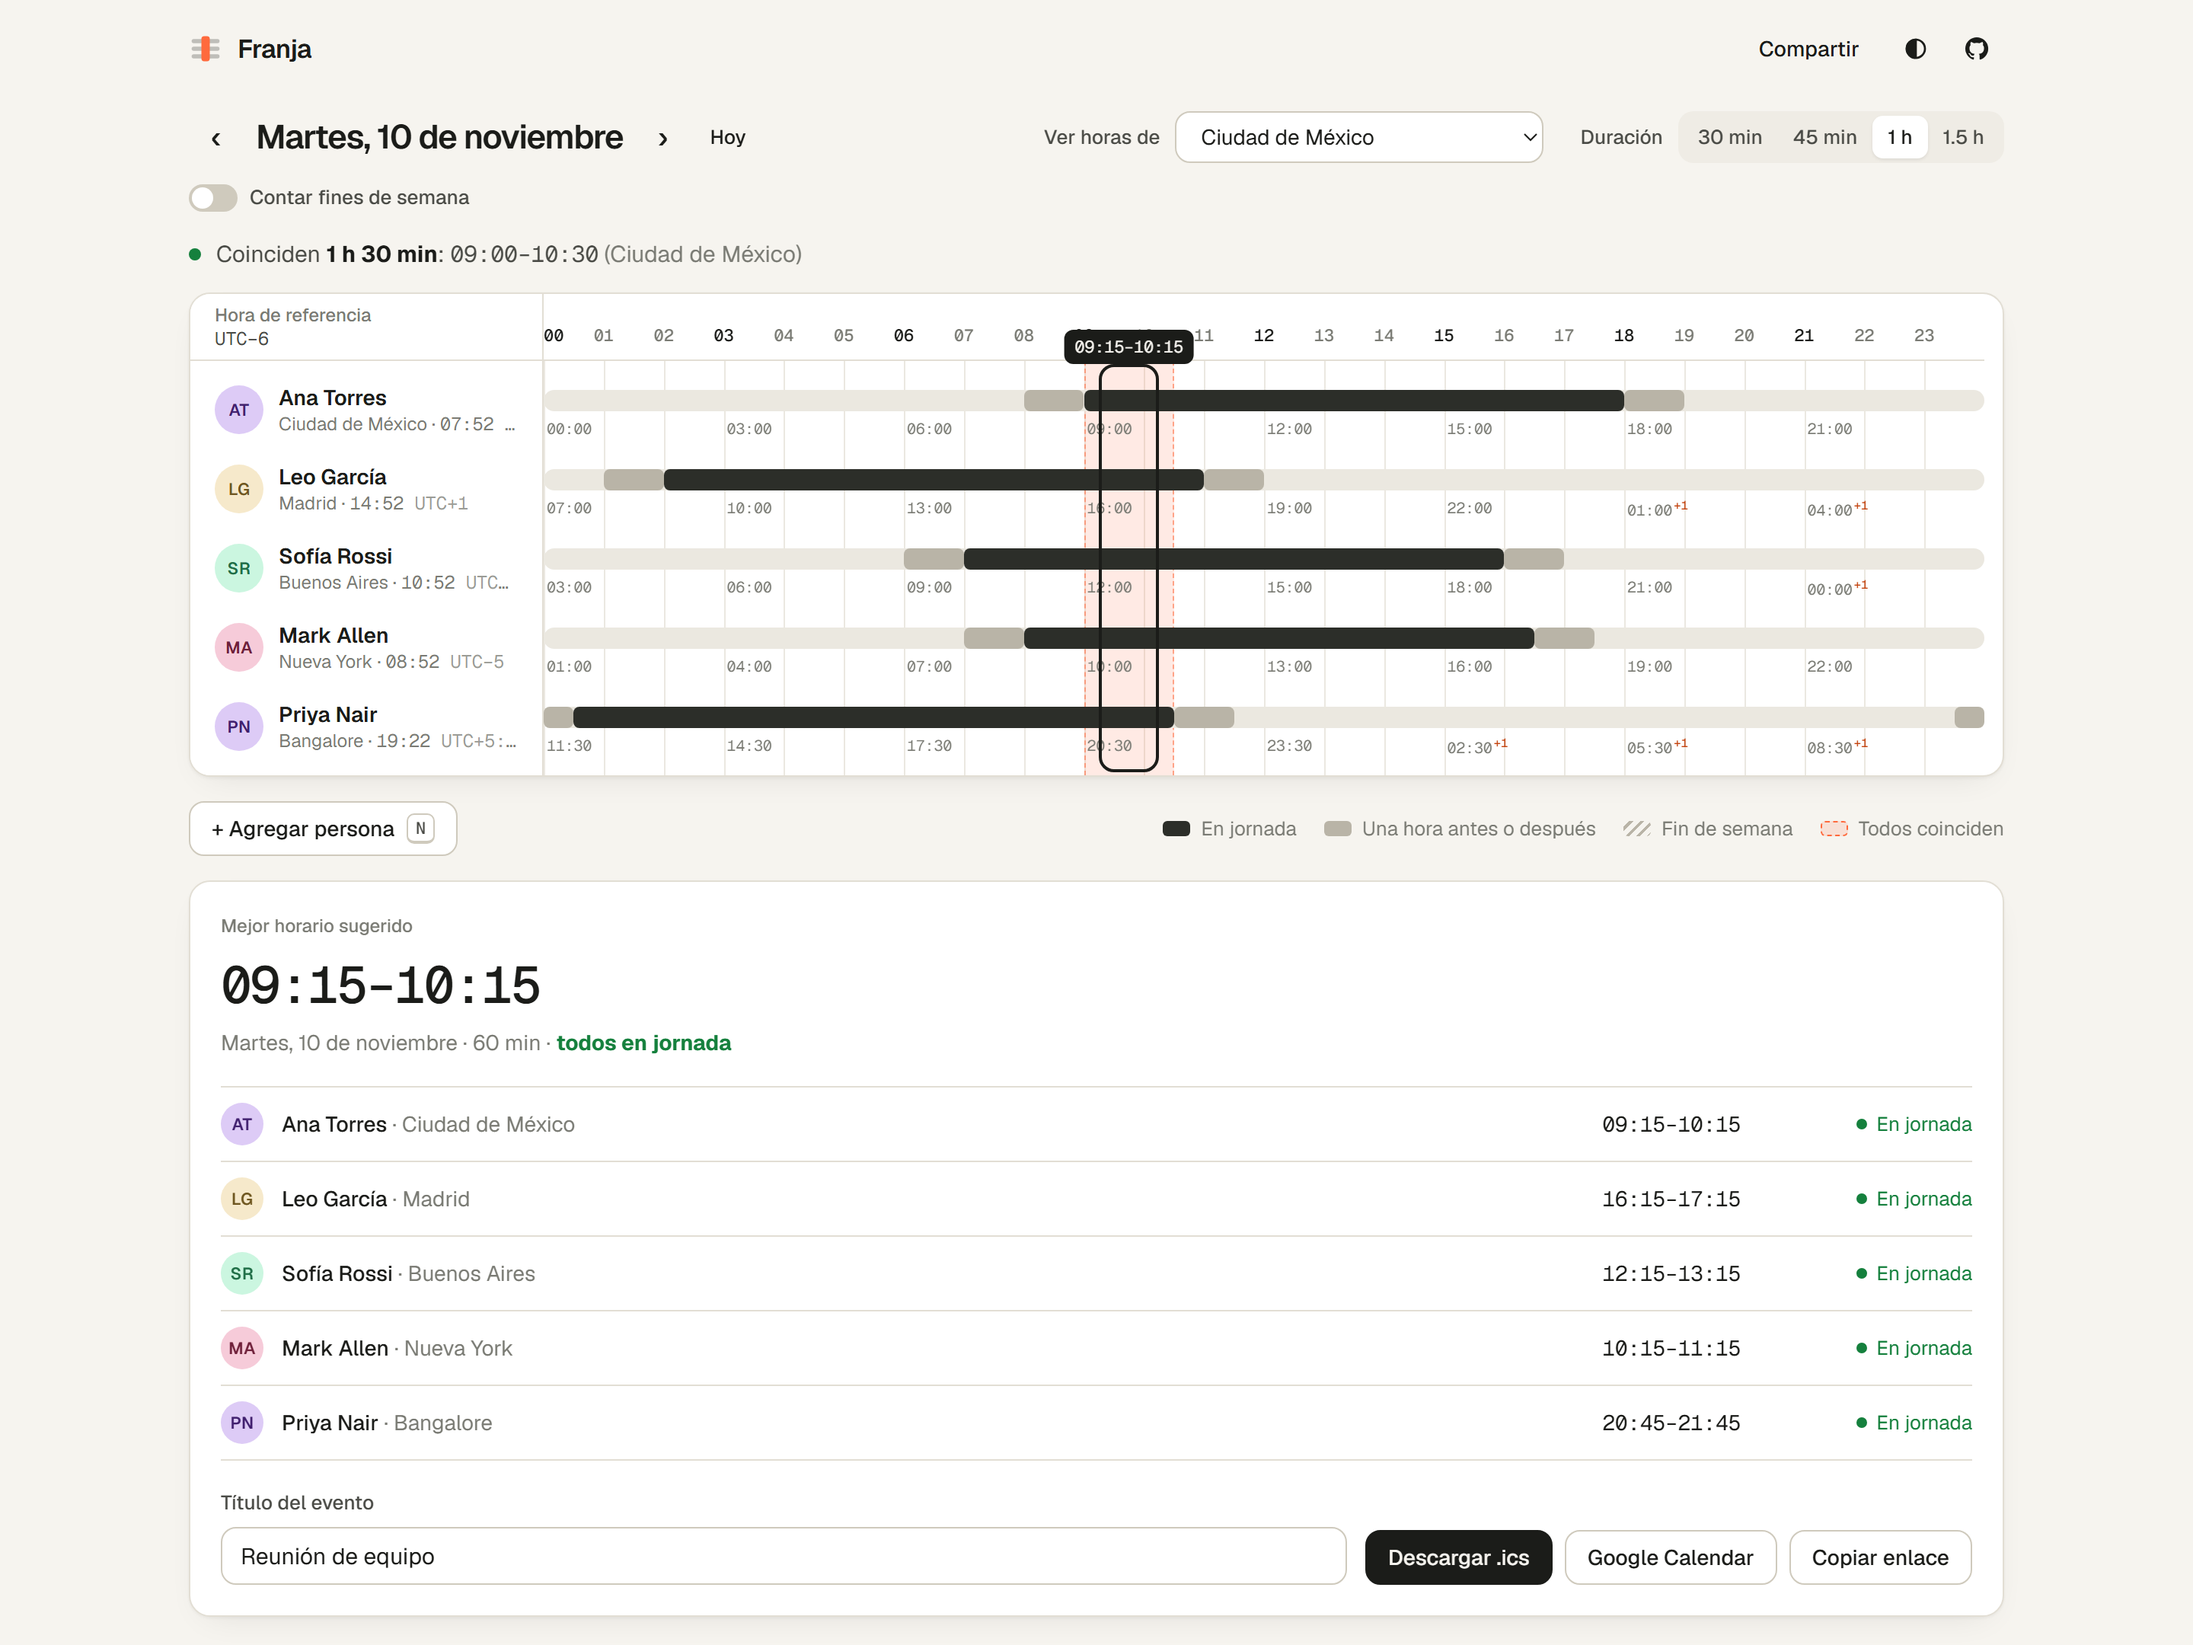
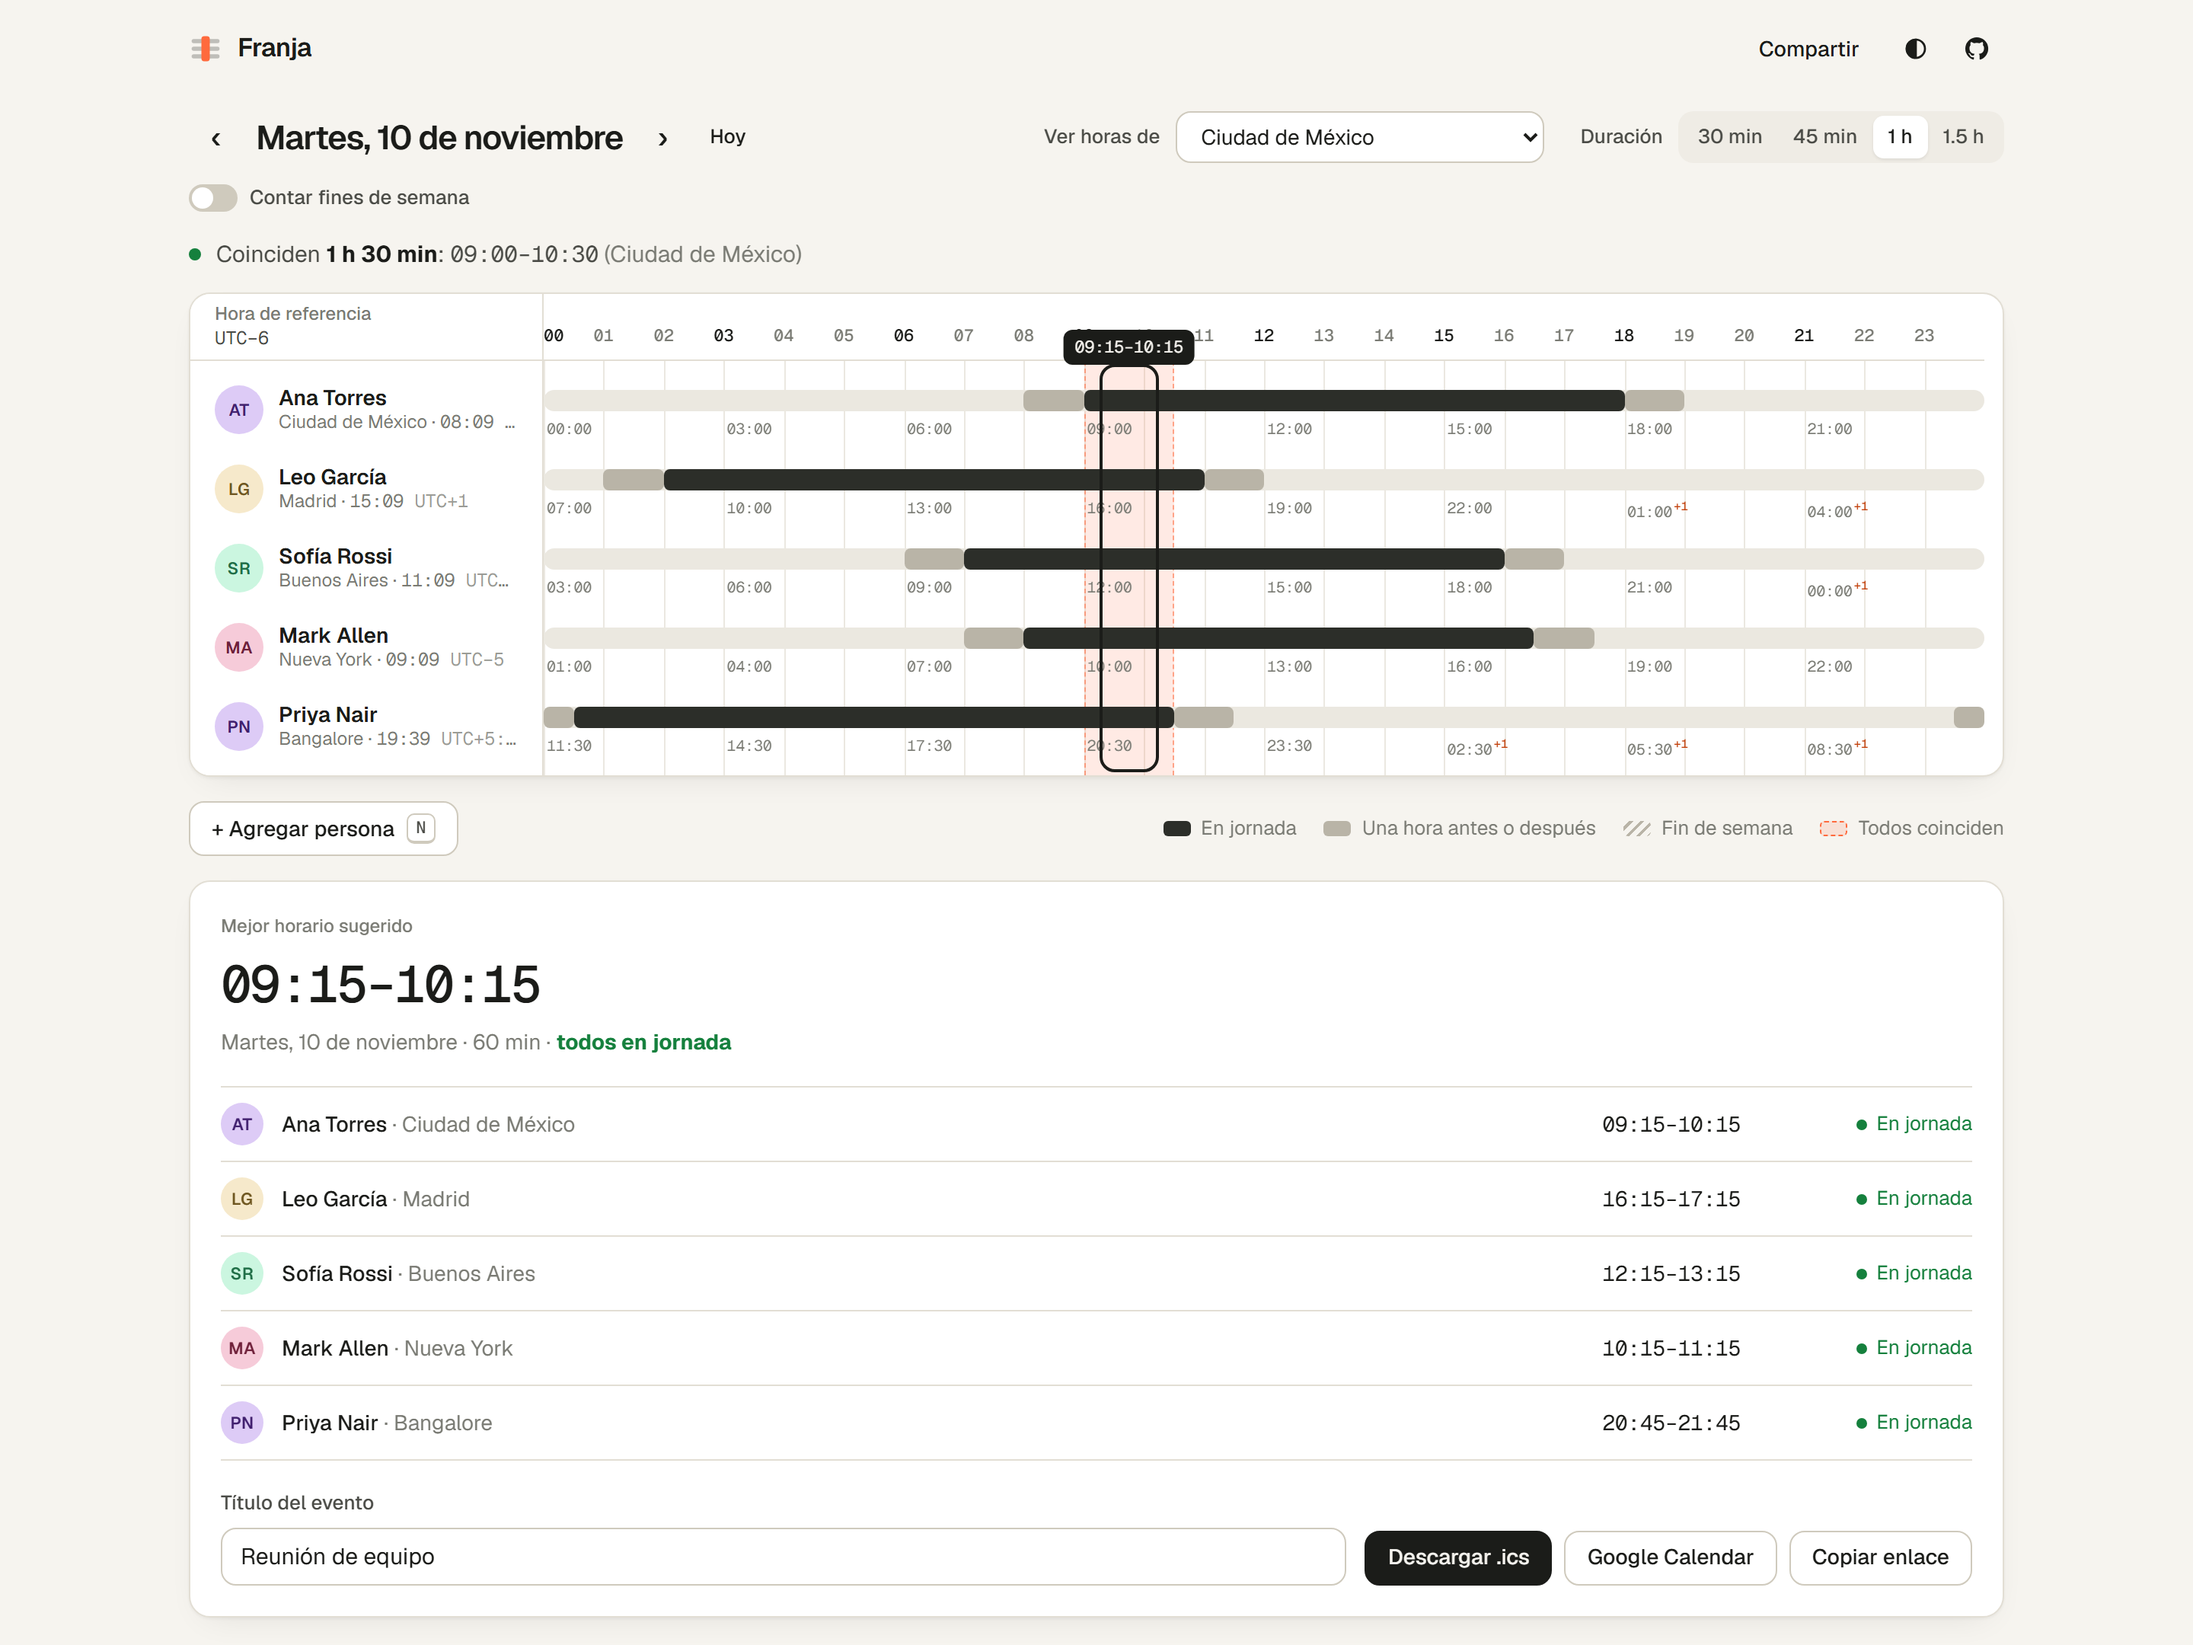
Actualiza las capturas del README e incluye el explorador de zonas
- scripts/screenshots.mjs genera las capturas claras y oscuras con Chrome
  sin interfaz, por el protocolo DevTools y sin dependencias
- Nuevo comando npm run screenshots

diff --git a/README.md b/README.md
@@ -22,6 +22,12 @@ Sin cuentas ni servidor: el equipo completo vive en el enlace.
 - **Todas las zonas horarias del mundo**: 420 zonas IANA en 247 países y territorios, con los 38 desfases que existen, de UTC−12 (islas Baker y Howland) a UTC+14 (Kiritimati).
 - **Búsqueda flexible**: por ciudad o país en español y sin importar acentos («japon», «Chile»), por desfase («UTC+5:45», «gmt-3», «+0530») o por abreviatura («EST», «CET», «IST», «JST»).
 - **Explorador del mundo**: todas las zonas agrupadas por desfase, con una tira que muestra cuántas zonas comparten cada hora.
+
+  <picture>
+    <source media="(prefers-color-scheme: dark)" srcset="docs/explorador-oscuro.png">
+    <img alt="Explorador de zonas: 420 zonas, 38 desfases y 247 países y territorios. Una tira de barras muestra cuántas zonas hay en cada desfase de UTC−12 a UTC+14; debajo, la lista empieza en UTC−12 con las islas Baker y Howland." src="docs/explorador-claro.png">
+  </picture>
+
 - **Línea de tiempo de 24 h** por persona, alineada a la zona que elijas, con la hora local de cada uno a la vista.
 - **Franja común resaltada** y resumen en texto: «Coinciden 2 h: 09:00–11:00».
 - **Sugerencia automática** del mejor horario. Si no hay coincidencia total, propone el bloque con más gente y evita que quien no puede asistir quede en plena madrugada.
@@ -100,7 +106,10 @@ npm test           # tests con Vitest
 npm run typecheck  # TypeScript estricto
 npm run build      # build de producción
 npm run zones      # regenera el catálogo de zonas
+npm run screenshots  # regenera las capturas del README (con npm run dev activo)
 ```
+
+Las capturas se generan con `scripts/screenshots.mjs`, que maneja Chrome sin interfaz por el protocolo DevTools usando el `WebSocket` nativo de Node: abre la app con un equipo de ejemplo, hace clic como lo haría una persona y guarda las versiones clara y oscura.
 
 Cada push a `main` pasa por GitHub Actions (tipos, tests y build) y se publica en GitHub Pages.
 
